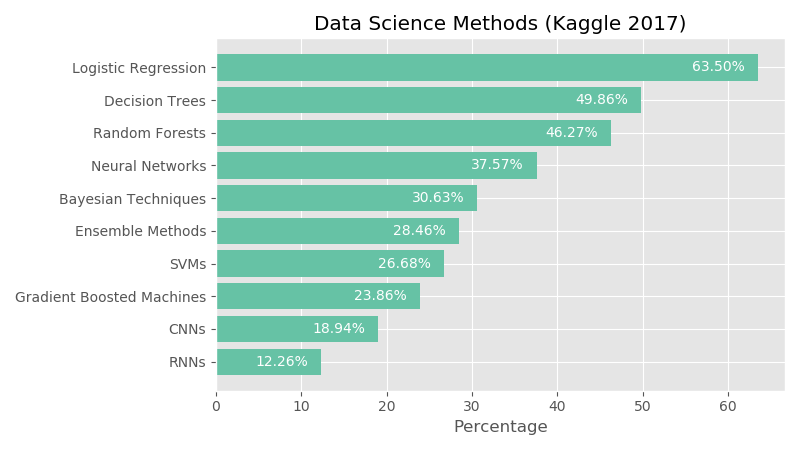
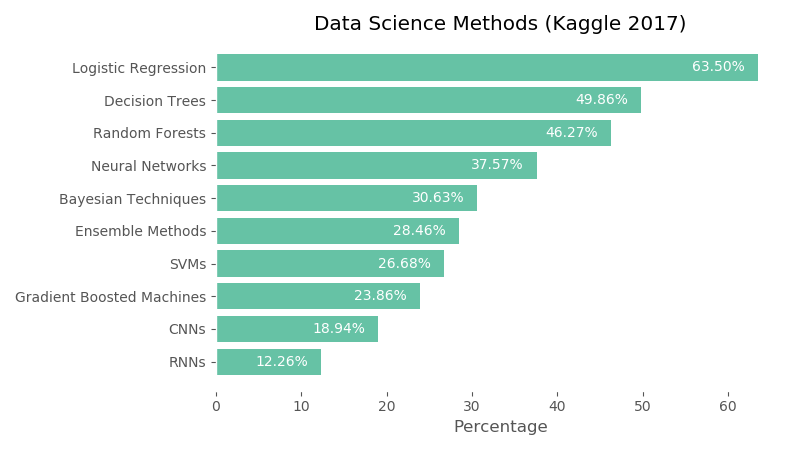
Update images to pngs and add version 1 of Shapley value example

diff --git a/index.html b/index.html
@@ -59,8 +59,13 @@ figcaption {font-size: 18px}
 }
 
 .responsive {
-  width: 100%;
-  height: auto;
+	width: 100%;
+	height: auto;
+}
+
+#table_container {
+	margin: 0 auto;
+	background-color : #F4F6F6;
 }
 
 </style>
@@ -104,10 +109,12 @@ figcaption {font-size: 18px}
       Nowadays, machine learning (ML) is widespread.  In particular, trees are one of the most popular ML model classes.  In a 2017 <a href="https://www.kaggle.com/surveys/2017">Kaggle survey</a>, tree models were both the second and third most popular data science method, only being beaten by Logistic Regression (based on 7,301 responses) (See Figure 1).  Although small tree models can be interpretable (<a href="#rudin2019">Rudin 2019</a>), most tree models are generally large and hard for humans to interpret.  
     </p>
 
+    <div style="background-color:#F4F6F6;">
     <figure>
 		<img src="images/methods.png" alt="Data Science Methods" class="responsive">
 		<figcaption class="w3-opacity">Figure 1: .</figcaption>
 	</figure>
+	</div>
 
     <p class="w3-opacity w3-justify">
     In order to rigorously explain these models, we turn to Shapley values (a unique game-theoretic solution for spreading credit between features).  Then, we discuss an extension of Shapley values to machine learning models (SHAP values) and trade-offs of different versions of SHAP values (Section 1).  Finally, computing SHAP values exactly is NP-hard (<a href="#matsui2001NP">Matsui et. al. 2001</a>), but by focusing on explaining trees, we can devise an exact linear time algorithm for obtaining SHAP values (Section 2).
@@ -148,8 +155,101 @@ figcaption {font-size: 18px}
     	To make these concepts more concrete, we can imagine a company that makes a profit \(v(S)\) that is determined by what combination of individuals they employ \(S\).  Furthermore, let's assume we know \(v(S)\) for all possible combinations of employees.  Then, the Shapley values assign credit to an individual \(i\) by taking a weighted average of how much the profit increases when \(i\) works with a group \(S\) versus when he does not work with \(S\).  Repeating this for all possible subsets \(S\) gives us the Shapley Values:
     	<!-- (include a simple graphic here?) -->
     	$$
-    	\overbrace{\phi_i(v)}^{\text{Shapley value of }i}=\sum_{S\subseteq \underbrace{N\setminus\{i\}}}\overbrace{\frac{|S|!(|N|-|S|-1)!}{|N|!}}^{\text{Weight }W(|S|,|N|)}(\overbrace{v(S\cup\{i\})-v(S)}^{\text{Profit individual }i\text{ adds}})
+    	\overbrace{\phi_i(v)}^{\text{Shapley value of }i}=\sum_{S\subseteq N\setminus\{i\}}\underbrace{\frac{|S|!(|N|-|S|-1)!}{|N|!}}_{\text{Weight }W(|S|,|N|)}(\overbrace{v(S\cup\{i\})-v(S)}^{\text{Profit individual }i\text{ adds}})
     	$$
+
+    </p>
+
+	<div id="table_container" style="overflow-x:auto;align:center;">
+	  <table class="w3-opacity w3-center" style="width:300px;display:inline;margin-right:25px;font-size:18px;">
+		<tr>
+			<th>Subset \(S\)</th>
+			<th>Profit \(v(S)\)</th>
+		</tr>
+		<tr>
+			<td>\(\{\}\)</td>
+			<td><input type="number" id="shapley_null" value="1" onchange="calcShapleyValues()" style="width:100px"></td>
+		</tr>
+		<tr>
+			<td>\(\{Ava\}\)</td>
+			<td><input type="number" id="shapley_a" value="2" onchange="calcShapleyValues()" style="width:100px"></td>
+		</tr>
+		<tr>
+			<td>\(\{Ben\}\)</td>
+			<td><input type="number" id="shapley_b" value="3" onchange="calcShapleyValues()" style="width:100px"></td>
+		</tr>
+		<tr>
+			<td>\(\{Cat\}\)</td>
+			<td><input type="number" id="shapley_c" value="4" onchange="calcShapleyValues()" style="width:100px"></td>
+		</tr>
+		<tr>
+			<td>\(\{Ava,Ben\}\)</td>
+			<td><input type="number" id="shapley_ab" value="5" onchange="calcShapleyValues()" style="width:100px"></td>
+		</tr>
+		<tr>
+			<td>\(\{Ava,Cat\}\)</td>
+			<td><input type="number" id="shapley_ac" value="6" onchange="calcShapleyValues()" style="width:100px"></td>
+		</tr>
+		<tr>
+			<td>\(\{Ben,Cat\}\)</td>
+			<td><input type="number" id="shapley_bc" value="7" onchange="calcShapleyValues()" style="width:100px"></td>
+		</tr>
+		<tr>
+			<td>\(\{Ava,Ben,Cat\}\)</td>
+			<td><input type="number" id="shapley_abc" value="8" onchange="calcShapleyValues()" style="width:100px"></td>
+		</tr>
+	  	<caption align="bottom" style="font-size:20px;">A coalitional game</caption>
+	  </table>
+	  <table class="w3-opacity w3-center fixed" style="width:200px;display:inline;margin-left:25px;font-size:20px;">
+		<col width="100px"/>
+    	<col width="100px"/>
+		<tr>
+			<td>\(\phi_{Ava}(v)\)</td>
+			<td id="phi_a">1.5</td>
+		</tr>
+		<tr>
+			<td>\(\phi_{Ben}(v)\)</td>
+			<td id="phi_b">2.5</td>
+		</tr>
+		<tr>
+			<td>\(\phi_{Cat}(v)\)</td>
+			<td id="phi_c">3</td>
+		</tr>
+	  	<caption align="bottom" style="font-size:20px;">Shapley values</caption>
+	  </table>
+	</div>
+
+	<script>
+	function calcShapleyValues() {
+
+		var s_null = document.getElementById("shapley_null").value
+		var s_a = document.getElementById("shapley_a").value
+		var s_b = document.getElementById("shapley_b").value
+		var s_c = document.getElementById("shapley_c").value
+		var s_ab = document.getElementById("shapley_ab").value
+		var s_ac = document.getElementById("shapley_ac").value
+		var s_bc = document.getElementById("shapley_bc").value
+		var s_abc = document.getElementById("shapley_abc").value
+
+		if (isNaN(s_null) || isNaN(s_a) || isNaN(s_b) || isNaN(s_c) ||
+			isNaN(s_ab) || isNaN(s_ac) || isNaN(s_bc) || isNaN(s_abc)) {
+			alert("The values must be between -100 and 100");
+			return;
+		}
+
+		var phi_a = 1/4*(s_abc-s_bc)+1/4*(s_ab-s_b)+1/4*(s_ac-s_c)+1/4*(s_a-s_null);
+		var phi_b = 1/4*(s_abc-s_ac)+1/4*(s_ab-s_a)+1/4*(s_bc-s_c)+1/4*(s_b-s_null);
+		var phi_c = 1/4*(s_abc-s_ab)+1/4*(s_ac-s_a)+1/4*(s_bc-s_b)+1/4*(s_c-s_null);
+
+		document.getElementById("phi_a").innerHTML = phi_a;
+		document.getElementById("phi_b").innerHTML = phi_b;
+		document.getElementById("phi_c").innerHTML = phi_c;
+		
+		MathJax.typeset();
+	}
+	</script>
+
+	<p class="w3-opacity w3-justify">
     	The Shapley values consider how much an individual increases profit when they work together with all other possible teams.  Furthermore, they are a unique solution to spreading credit as defined by several desirable properties (<a href="#young_uniquesol">Young 1985</a>):
     	<ul class="w3-opacity w3-justify">
     		<li>Local Accuracy/Efficiency: The sum of Shapley values for all employees adds up to the profit with all employees minus the profit with no employees:</li>
@@ -167,105 +267,8 @@ figcaption {font-size: 18px}
     	</ul>
     </p>
 
-	<table class="w3-opacity w3-center" style="width:400px" align="center">
-	<caption>An interactive Shapley value example.</caption>
-	<tr>
-		<th>Subset \(S\)</th>
-		<th>Profit \(v(S)\)</th>
-	</tr>
-	<tr>
-		<td>\(\{\}\)</td>
-		<td><input type="number" id="shapley_null" value="1" onchange="calcShapleyValues()" style="width:100px"></td>
-	</tr>
-	<tr>
-		<td>\(\{Ava\}\)</td>
-		<td><input type="number" id="shapley_a" value="2" onchange="calcShapleyValues()" style="width:100px"></td>
-	</tr>
-	<tr>
-		<td>\(\{Ben\}\)</td>
-		<td><input type="number" id="shapley_b" value="3" onchange="calcShapleyValues()" style="width:100px"></td>
-	</tr>
-	<tr>
-		<td>\(\{Cat\}\)</td>
-		<td><input type="number" id="shapley_c" value="4" onchange="calcShapleyValues()" style="width:100px"></td>
-	</tr>
-	<tr>
-		<td>\(\{Ava,Ben\}\)</td>
-		<td><input type="number" id="shapley_ab" value="5" onchange="calcShapleyValues()" style="width:100px"></td>
-	</tr>
-	<tr>
-		<td>\(\{Ava,Cat\}\)</td>
-		<td><input type="number" id="shapley_ac" value="6" onchange="calcShapleyValues()" style="width:100px"></td>
-	</tr>
-	<tr>
-		<td>\(\{Ben,Cat\}\)</td>
-		<td><input type="number" id="shapley_bc" value="7" onchange="calcShapleyValues()" style="width:100px"></td>
-	</tr>
-	<tr>
-		<td>\(\{Ava,Ben,Cat\}\)</td>
-		<td><input type="number" id="shapley_abc" value="8" onchange="calcShapleyValues()" style="width:100px"></td>
-	</tr>
-	</table>
-
-	<br>
-
-	<p class="w3-opacity w3-center" style="font-size:16px" id="interactive_phi">
-		$$
-		\begin{aligned}
-		\phi_{A}=&\frac{1}{4}(v(\{A,B,C\})-v(\{B,C\}))
-		+\frac{1}{4}(v(\{A,B\})-v(\{B\}))+\\
-		&\frac{1}{4}(v(\{A,C\})-v(\{C\}))
-		+\frac{1}{4}(v(\{A\})-v(\{\}))
-		\end{aligned}
-		$$
-	</p>
-
-	<!-- Function to calculate the  -->
-	<script>
-
-	function invalid(value) {
-		return(isNaN(value) || value < -100 || value > 100)
-	}
-
-	function calcShapleyValues() {
-
-		var s_null = document.getElementById("shapley_null").value
-		var s_a = document.getElementById("shapley_a").value
-		var s_b = document.getElementById("shapley_b").value
-		var s_c = document.getElementById("shapley_c").value
-		var s_ab = document.getElementById("shapley_ab").value
-		var s_ac = document.getElementById("shapley_ac").value
-		var s_bc = document.getElementById("shapley_bc").value
-		var s_abc = document.getElementById("shapley_abc").value
-
-		if (invalid(s_null) || invalid(s_a) || invalid(s_b) || invalid(s_c) ||
-			invalid(s_ab) || invalid(s_ac) || invalid(s_bc) || invalid(s_abc)) {
-			alert("The values must be between -100 and 100");
-		}
-
-		var phi_a = 1/4*(s_abc-s_bc)+1/4*(s_ab-s_b)+1/4*(s_ac-s_c)+1/4*(s_a-s_null);
-
-		document.getElementById("interactive_phi").innerHTML = 
-		`
-		\$\$
-		\\begin\{aligned\}
-		\\phi_\{A\}=&\\frac\{1\}\{4\}(v(\\\{A,B,C\\\})-v(\\\{B,C\\\}))
-		+\\frac\{1\}\{4\}(v(\\\{A,B\\\})-v(\\\{B\\\}))+\\\\
-		&\\frac\{1\}\{4\}(v(\\\{A,C\\\})-v(\\\{C\\\}))
-		+\\frac\{1\}\{4\}(v(\\\{A\\\})-v(\\\{\\\}))\\\\
-		=&${phi_a}
-		\\end\{aligned\}
-		\$\$
-		`
-		// `\\(1/4(${s_abc}-${s_bc})+1/4(${s_ab}-${s_b})+1/4(${s_ac}-${s_c})+1/4(${s_a}-${s_null})=${phi_a}\\)`;
-		
-		MathJax.typeset();
-
-	}
-	</script>
-
 	<p class="w3-opacity w3-justify">
-    	<a href="#lundberg_unified">Lundberg and Lee (2017)</a> extend Shapley values for explaining ML models (SHAP values) (<a href="#shap_values">Section 1.2</a>).
+    	<a href="#lundberg_unified">Lundberg and Lee (2017)</a> extend Shapley values to explain ML models (SHAP values) (<a href="#shap_values">Section 1.2</a>).
     </p>
 
 
@@ -389,7 +392,7 @@ figcaption {font-size: 18px}
 
 		<figure  style="float:left">
 			<figcaption class="w3-opacity">Figure 1: Binary tree example.</figcaption>
-			<img src="images/tree_example.jpg" alt="Tree Example" width="300">
+			<img src="images/tree_example.png" alt="Tree Example" width="300">
 		</figure>
 
 		<table cellpadding="10" align="center">
@@ -637,7 +640,7 @@ figcaption {font-size: 18px}
 		<figure style="float:left">
 			<figcaption class="w3-opacity"><strong>Figure 2:</strong> Paths corresponding <br>to terms in Table 3.</figcaption>
 			<br>
-			<img src="images/tree_example2.jpg" alt="Tree Example" height="220">
+			<img src="images/tree_example2.png" alt="Tree Example" height="220">
 		</figure>
 
 		<br>
@@ -747,10 +750,12 @@ figcaption {font-size: 18px}
 		Then the goal of the algorithm is to obtain \(N_P\) and \(S_P\) for each path by recursively traversing the tree.  We will start by explaining the algorithm via an example:
 	</p>
 
+	<div>
 	<figure>
 		<figcaption class="w3-opacity">Figure 3: Green paths are associated with \(\textcolor{green}{x}\) and red paths are \(\textcolor{red}{\hat{x}}\).</figcaption>
-		<img src="images/tree_example3.jpg" alt="Tree Example 3" width="400">
+		<img src="images/tree_example3.png" alt="Tree Example 3" width="400">
 	</figure>
+	</div>
 
 	<p class="w3-opacity w3-justify">
 		In the naive algorithm, we maintain lists \(N_P\) and \(S_P\) as we traverse the tree.  At each internal node (Cases 2-4) we update the lists and then pass them to the node's children.  At the leaf nodes (Case 1), we calculate the attribution for each path.  In Figure 3, we see four possible cases:
@@ -871,7 +876,7 @@ figcaption {font-size: 18px}
 
 		<figure style="float:left">
 			<figcaption class="w3-opacity">Figure 4: Example to illustrate collapsibility for features.  Green paths are associated with \(\textcolor{green}{x}\) and red paths are \(\textcolor{red}{\hat{x}}\)</figcaption>
-			<img src="images/tree_example4.jpg" alt="Tree Example 3" width="300">
+			<img src="images/tree_example4.png" alt="Tree Example 3" width="300">
 		</figure>
 
 		<table cellpadding="10" align="center">
